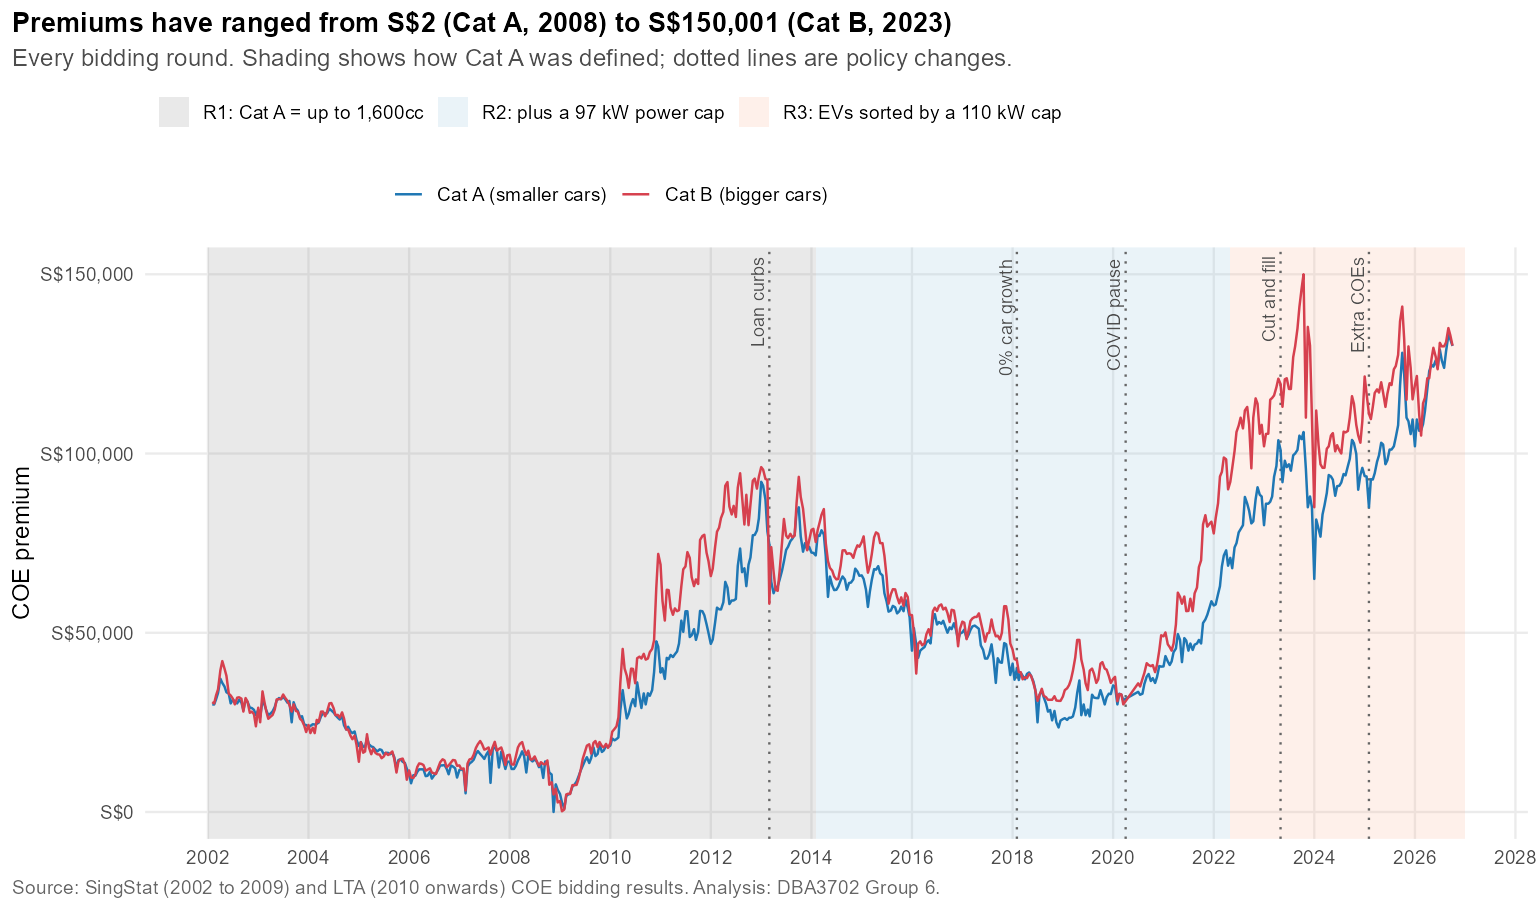
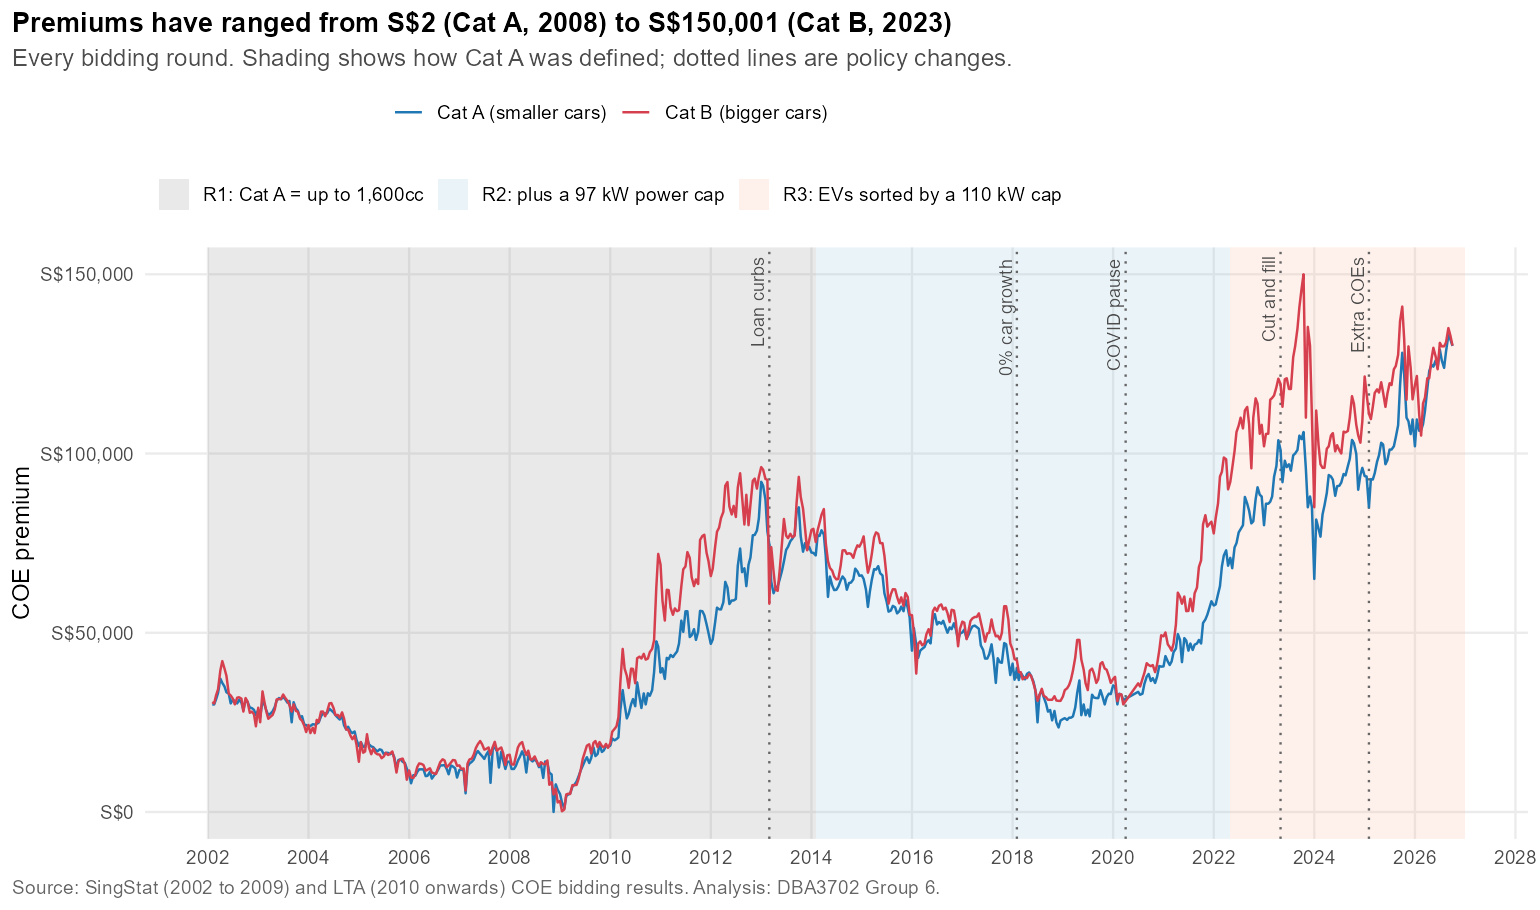
Refactor EDA documentation and visualizations by removing outdated charts and updating descriptions. Drop the 'locked exits' chart and revise related sections in the README and R scripts for clarity. Adjust gallery content to focus on current data trends and enhance the overall narrative of the Mark

diff --git a/app/logic/eda/README.md b/app/logic/eda/README.md
@@ -7,9 +7,9 @@ app/logic/eda/
   README.md
   render_gallery.R                 # writes Market gallery PNGs
   source/
-    coe_eda_gallery.Rmd            # Market gallery source (g0–g7)
+    coe_eda_gallery.Rmd            # Market gallery source
 
-app/static/eda/                    # g0_… g7_ only
+app/static/eda/                    # Market PNGs only
 ```
 
 | File | Story |
@@ -17,7 +17,6 @@ app/static/eda/                    # g0_… g7_ only
 | `g0_premium_history.png` | Long premium backdrop |
 | `g1_quota_rule_topup.png` | Formula vs LTA top-up |
 | `g2_age_heatmap.png` | Age wave on the road |
-| `g3_locked_exits_lollipop.png` | Locked 5y exits |
 | `g4_owner_price_response.png` | Owner response to price |
 | `g7_supply_price.png` | Quota change vs premium change |
 | `g5_bids_per_coe_violin.png` | Bidding pressure |
